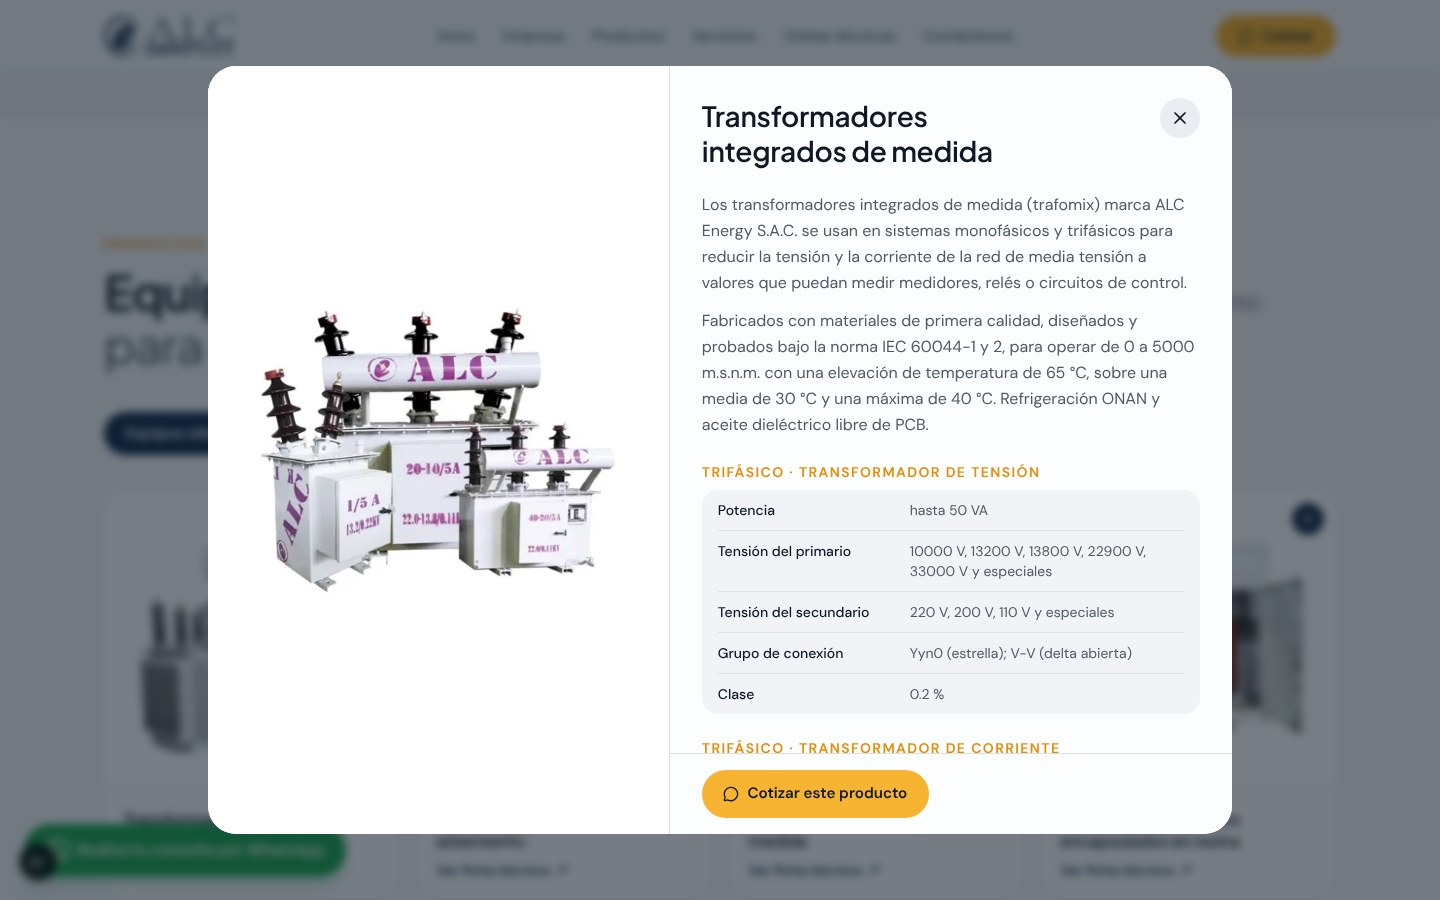
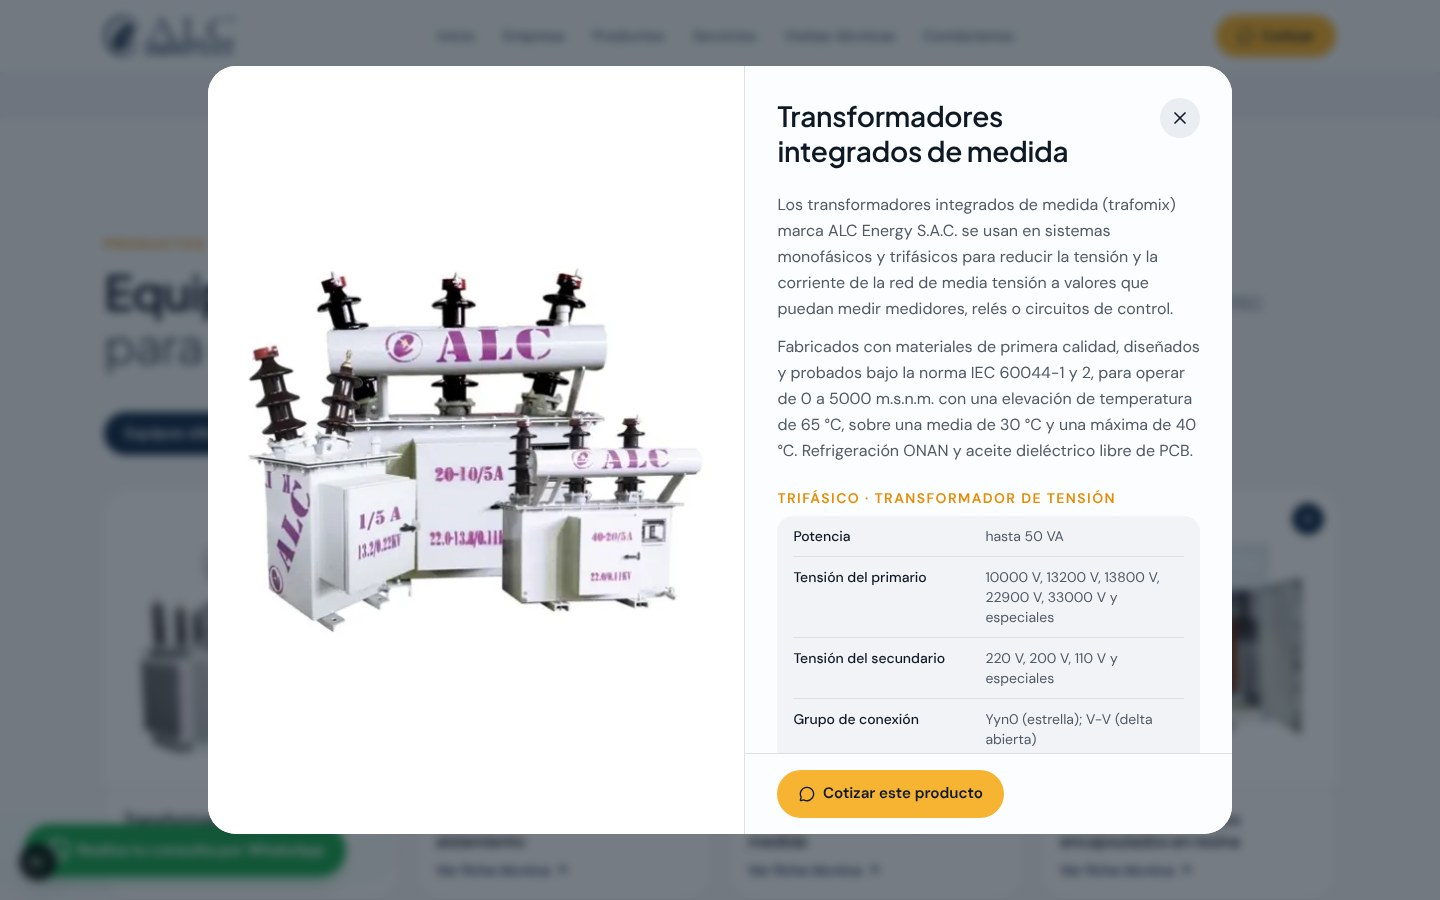
Larger product images in spec sheet; footer credit to @RainCode
Claude-Session: https://claude.ai/code/session_01Qnax6kgLq6CHi39nqs2CjU

Changed region(s): [[0.1562, 0.2178, 0.8438, 0.9333], [0.4688, 0.1244, 0.75, 0.1867]]

diff --git a/site/src/components/ProductTabs.tsx b/site/src/components/ProductTabs.tsx
@@ -134,15 +134,14 @@ function ProductDialog({ product, onClose }: { product: Product | null; onClose:
       className="product-dialog m-auto max-h-[92dvh] w-[min(64rem,calc(100vw-1.5rem))] overflow-y-auto overscroll-contain rounded-[1.75rem] bg-surface p-0 text-foreground md:overflow-hidden"
     >
       {product && (
-        <div className="md:grid md:h-[min(92dvh,48rem)] md:grid-cols-[0.9fr_1.1fr] md:grid-rows-[minmax(0,1fr)]">
-          <div className="relative flex min-h-56 items-center justify-center bg-white p-8 md:h-full md:p-10">
+        <div className="md:grid md:h-[min(92dvh,48rem)] md:grid-cols-[1.1fr_1fr] md:grid-rows-[minmax(0,1fr)]">
+          <div className="relative h-[46dvh] bg-white md:h-full">
             <Image
               src={`/images/products/${product.img}.jpg`}
               alt={product.name}
-              width={product.w}
-              height={product.h}
-              sizes="(min-width: 768px) 40vw, 90vw"
-              className="max-h-[40dvh] w-auto object-contain mix-blend-multiply md:max-h-[60dvh]"
+              fill
+              sizes="(min-width: 768px) 45vw, 100vw"
+              className="object-contain p-4 mix-blend-multiply sm:p-6"
             />
           </div>
           <div className="flex flex-col border-t md:min-h-0 md:border-l md:border-t-0">

diff --git a/site/src/app/page.tsx b/site/src/app/page.tsx
@@ -538,10 +538,7 @@ export default function Home() {
           <div className="mt-14 flex flex-col gap-2 border-t border-primary-foreground/15 pt-6 text-xs text-primary-foreground/55 sm:flex-row sm:justify-between">
             <p>© ALC Energy S.A.C. · RUC {site.ruc}. Todos los derechos reservados.</p>
             <p>
-              Hecho con Claude Web Builder de{" "}
-              <a href="https://tododeia.com" className="underline underline-offset-2 hover:text-primary-foreground">
-                Tododeia
-              </a>
+              Hecho por <span className="font-semibold text-primary-foreground/80">@RainCode</span>
             </p>
           </div>
         </div>
